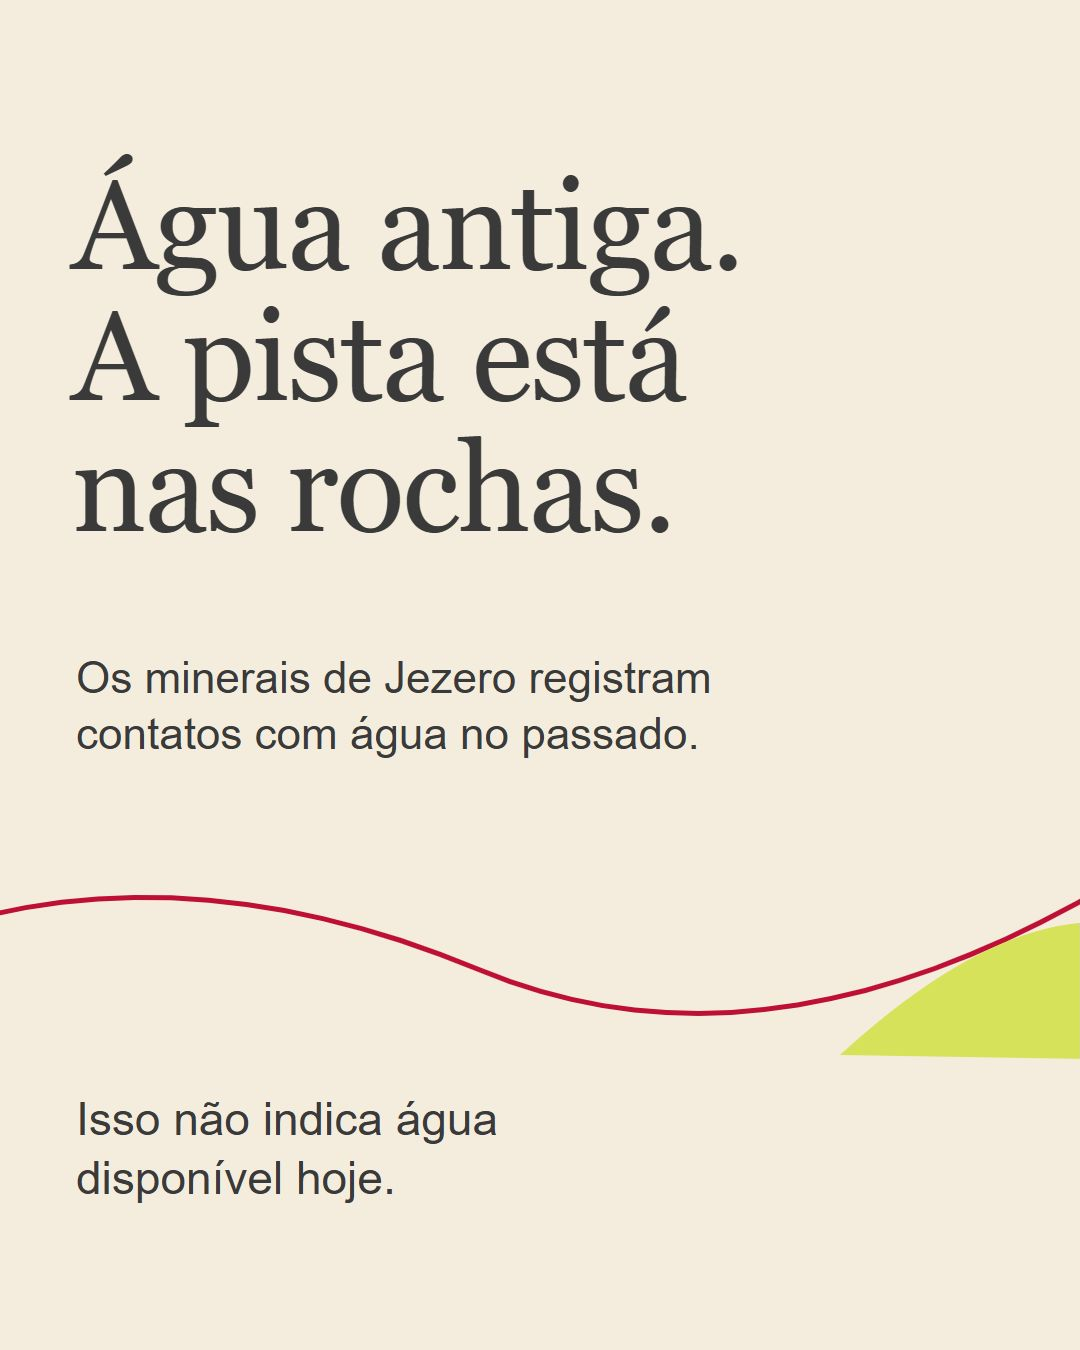
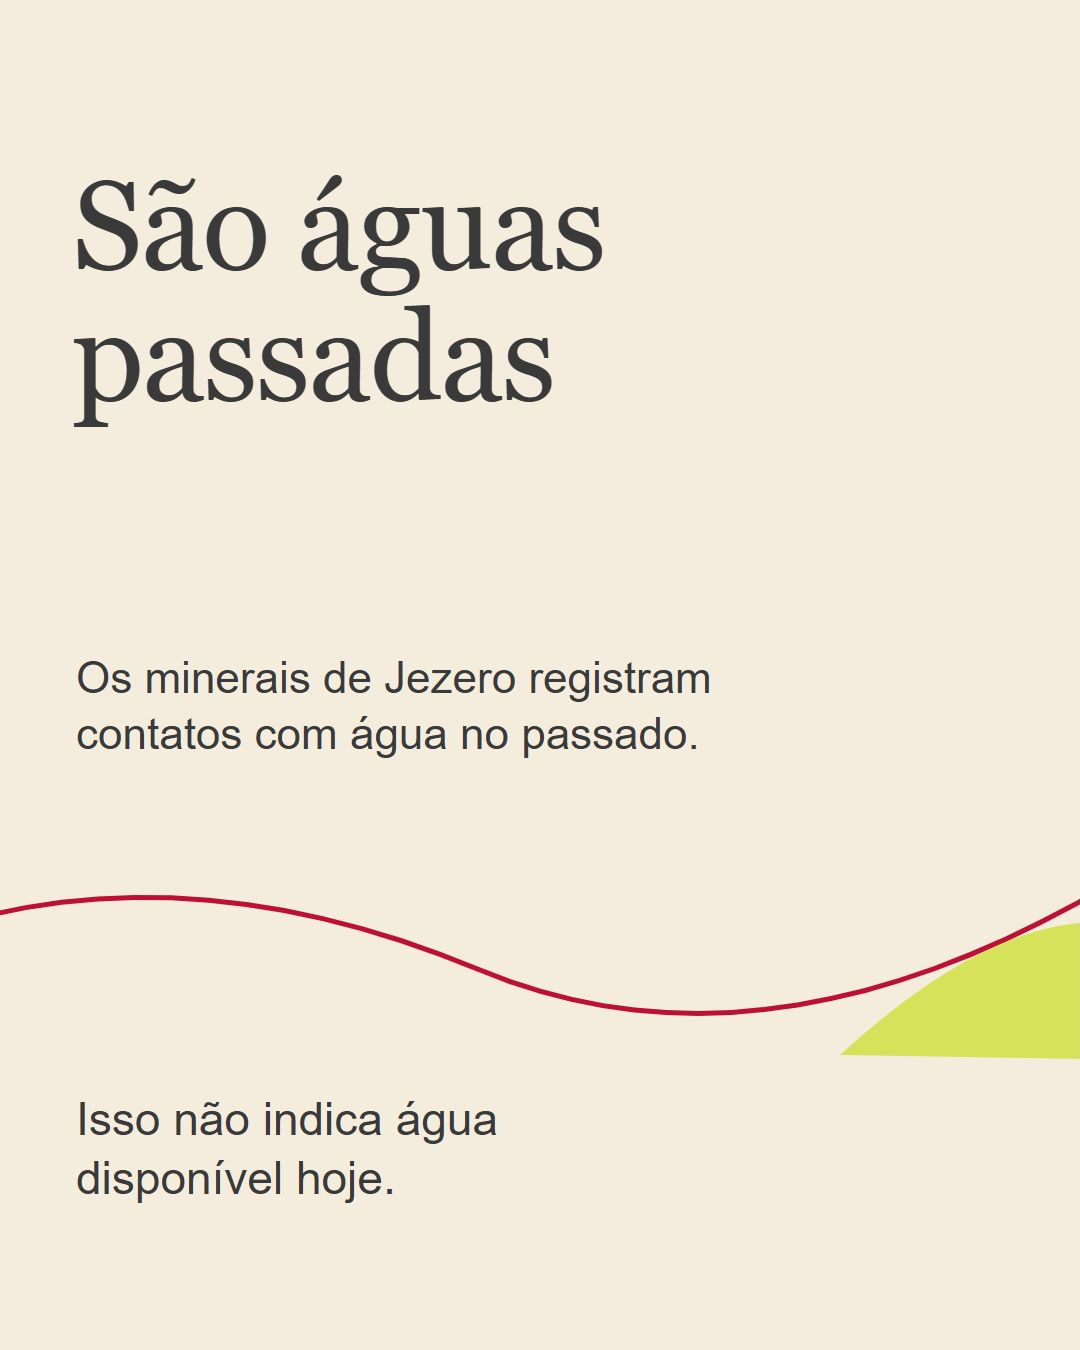
Use Sao aguas passadas wordplay on correction slide

Changed region(s): [[0.0611, 0.0933, 0.7028, 0.4044]]

diff --git a/growth/cycles/031-mars/slide-02.html b/growth/cycles/031-mars/slide-02.html
@@ -1,1 +1,1 @@
-<!doctype html><html lang="pt-BR"><meta charset="utf-8"><title>Cereja Flamejante #031 · 2</title><link rel="stylesheet" href="issue26.css"><main class="slide correction"><h2>Água antiga.<br>A pista está<br>nas rochas.</h2><p class="explanation">Os minerais de Jezero registram<br>contatos com água no passado.</p><svg class="curve" viewBox="0 0 1230 230" aria-hidden="true"><path d="M0 105Q260 15 560 140T1230 30" fill="none" stroke="#BE1035" stroke-width="5"/><path d="M920 225Q1100 60 1230 100V230Z" fill="#D7E25B"/></svg><p class="boundary">Isso não indica água<br>disponível hoje.</p></main></html>
+<!doctype html><html lang="pt-BR"><meta charset="utf-8"><title>Cereja Flamejante #031 · 2</title><link rel="stylesheet" href="issue26.css"><main class="slide correction"><h2>São águas<br>passadas</h2><p class="explanation">Os minerais de Jezero registram<br>contatos com água no passado.</p><svg class="curve" viewBox="0 0 1230 230" aria-hidden="true"><path d="M0 105Q260 15 560 140T1230 30" fill="none" stroke="#BE1035" stroke-width="5"/><path d="M920 225Q1100 60 1230 100V230Z" fill="#D7E25B"/></svg><p class="boundary">Isso não indica água<br>disponível hoje.</p></main></html>
